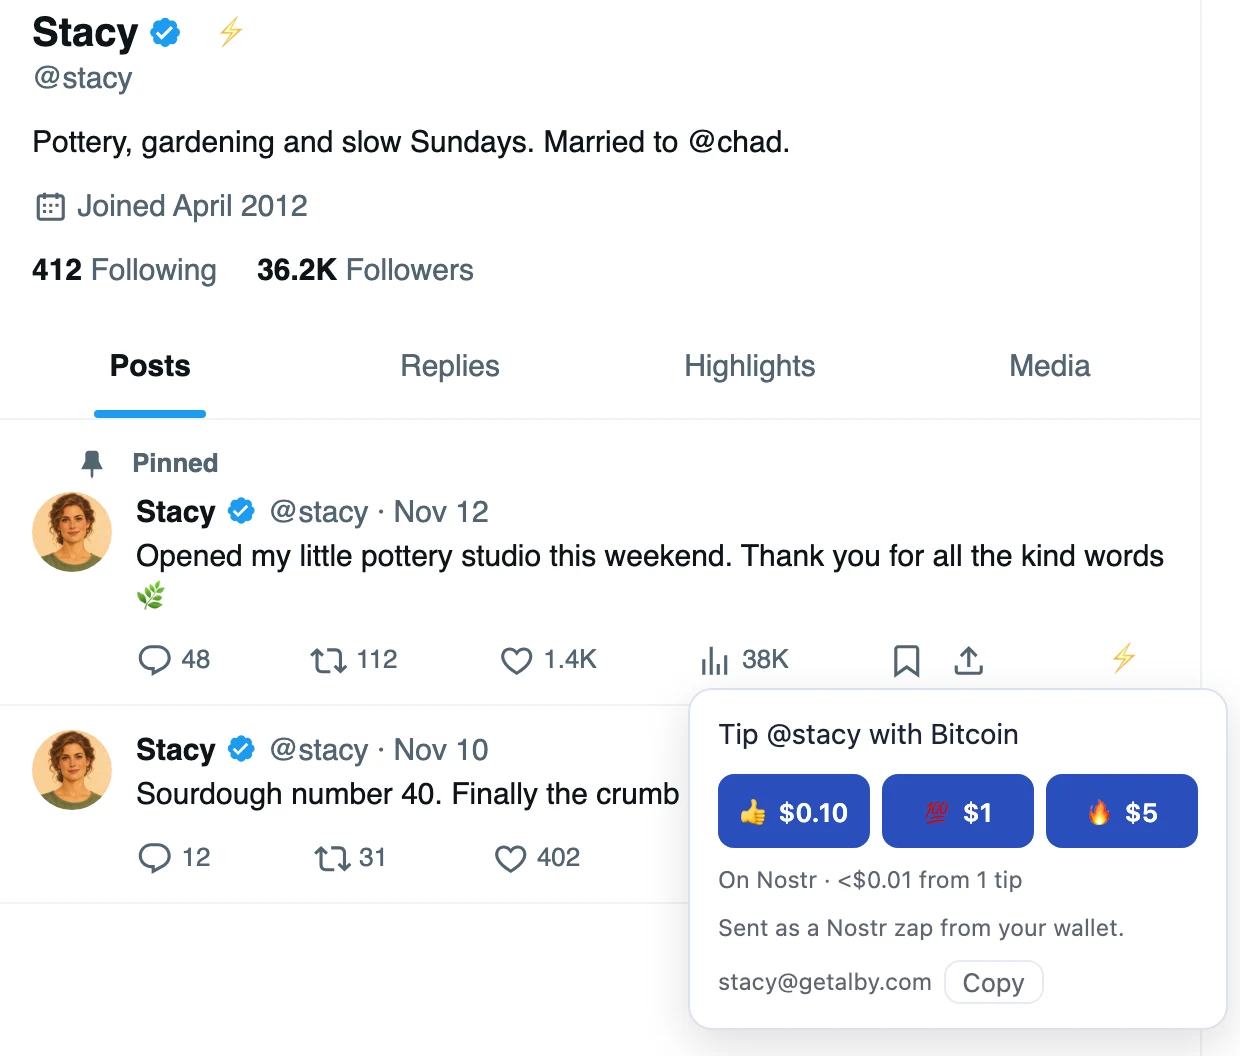
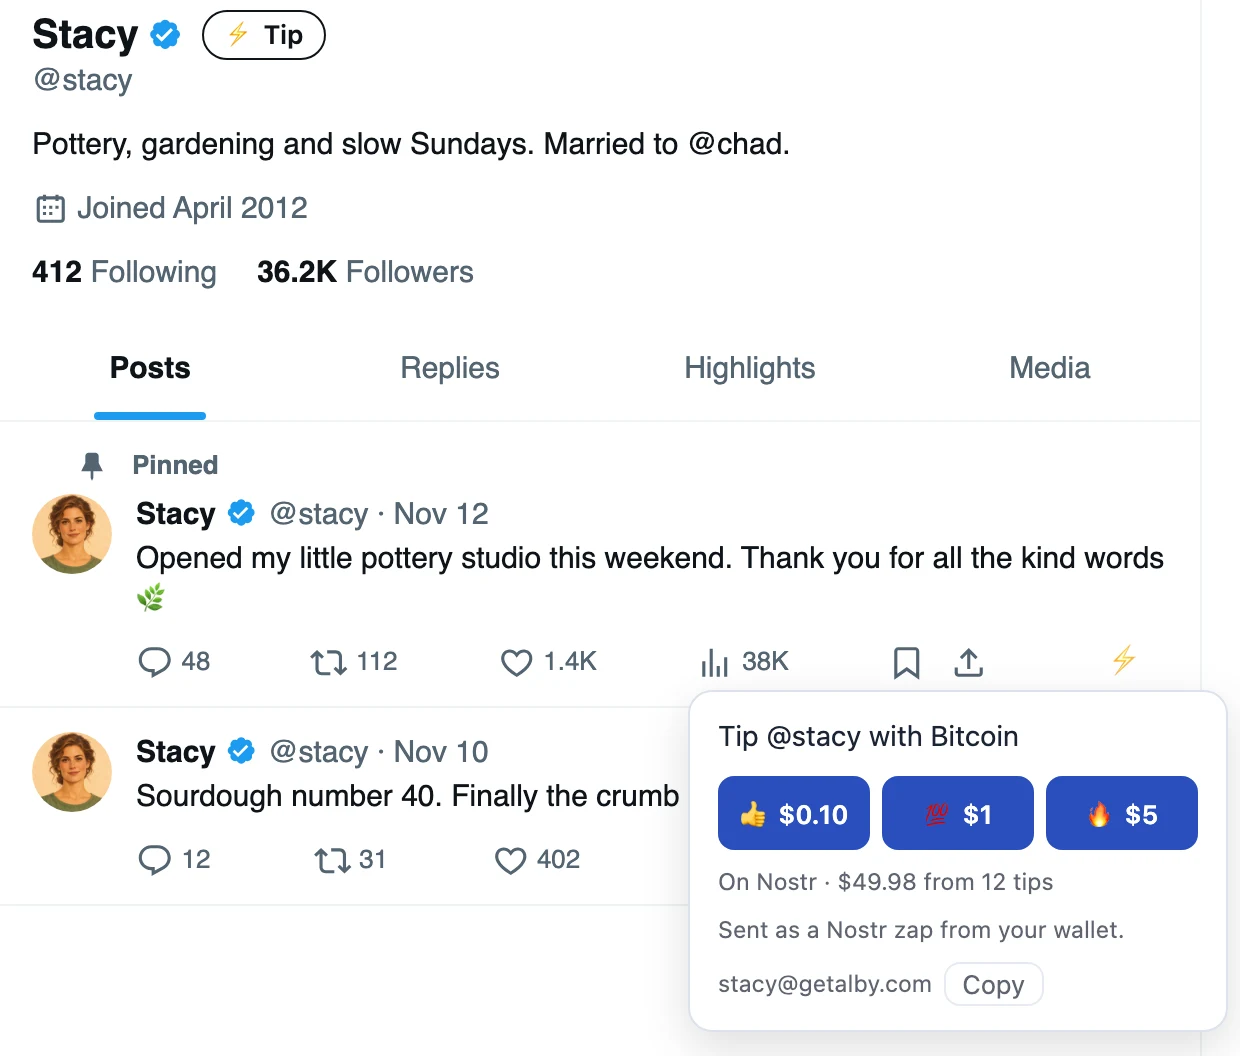
Label the profile Tip button and refresh the tipping screenshots

diff --git a/src/x-tip-buttons.ts b/src/x-tip-buttons.ts
@@ -54,15 +54,17 @@ export function createTipButtons(send: Send, doc: Document = document) {
     popover?.remove();
     popover = undefined;
   }
-  function button(handle: string, post: Post | undefined, own: boolean) {
+  function button(handle: string, post: Post | undefined, own: boolean, placement: 'profile' | 'post') {
     const node = doc.createElement('button');
     node.type = 'button';
     node.setAttribute(MARK, handle);
-    node.textContent = '⚡';
+    node.textContent = placement === 'profile' ? '⚡ Tip' : '⚡';
     node.title = own ? 'People with Social Backup can tip you here' : 'Tip @' + handle + ' with Bitcoin';
     node.setAttribute('aria-label', node.title);
-    node.style.cssText =
-      'background:none;border:0;cursor:pointer;font-size:16px;line-height:1;padding:0 10px;color:inherit;opacity:.75';
+    node.style.cssText = placement === 'profile'
+      ? 'background:transparent;border:1px solid currentColor;border-radius:999px;color:inherit;cursor:pointer;' +
+        'font:600 13px/1 system-ui;padding:5px 10px;margin-inline-start:4px;white-space:nowrap'
+      : 'background:none;border:0;cursor:pointer;font-size:16px;line-height:1;padding:0 10px;color:inherit;opacity:.75';
     node.addEventListener('click', (event) => {
       event.preventDefault();
       event.stopPropagation();
@@ -213,11 +215,11 @@ export function createTipButtons(send: Send, doc: Document = document) {
       const handle = author(article);
       if (!handle || !targets.get(handle) || article.querySelector(`[${MARK}]`)) continue;
       const bar = Array.from(article.querySelectorAll('[role="group"]')).filter((g) => g.closest('article') === article).at(-1);
-      bar?.append(button(handle, postInfo(article), handle === own));
+      bar?.append(button(handle, postInfo(article), handle === own, 'post'));
     }
     // On the name row, after the name and badges, rather than on a line of its own.
     if (name && profile && targets.get(profile) && !name.querySelector(`[${MARK}]`))
-      (name.firstElementChild ?? name).append(button(profile, undefined, profile === own));
+      (name.firstElementChild ?? name).append(button(profile, undefined, profile === own, 'profile'));
   }
   function reset() {
     close();

diff --git a/website/public/index.html b/website/public/index.html
@@ -88,7 +88,7 @@
         <figure class="backup-preview tips-preview">
           <picture>
             <source media="(prefers-color-scheme: dark)" srcset="./screenshots/tips-dark.webp" width="620" height="528">
-            <img src="./screenshots/tips-light.webp" width="620" height="528" loading="lazy" alt="A ⚡ tip button on Stacy’s sample X profile opens tips of $0.10, $1 and $5 and shows one Nostr tip worth less than $0.01.">
+            <img src="./screenshots/tips-light.webp" width="620" height="528" loading="lazy" alt="Stacy’s profile has a ⚡ Tip button beside her name. Her post offers $0.10, $1 and $5 tips and shows $49.98 from 12 tips on Nostr.">
           </picture>
           <figcaption>Tips on a sample X profile.</figcaption>
         </figure>
